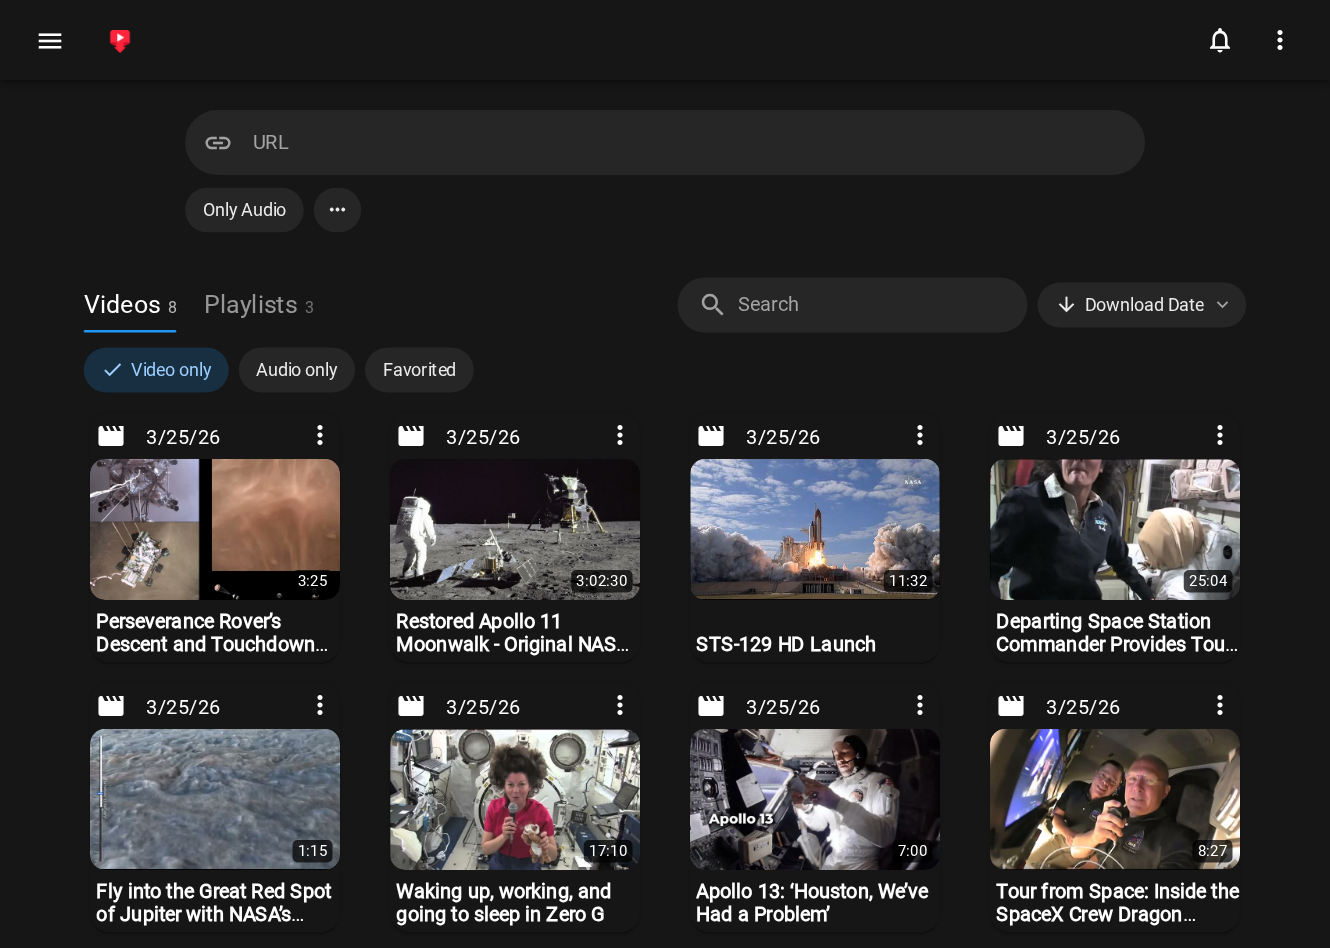
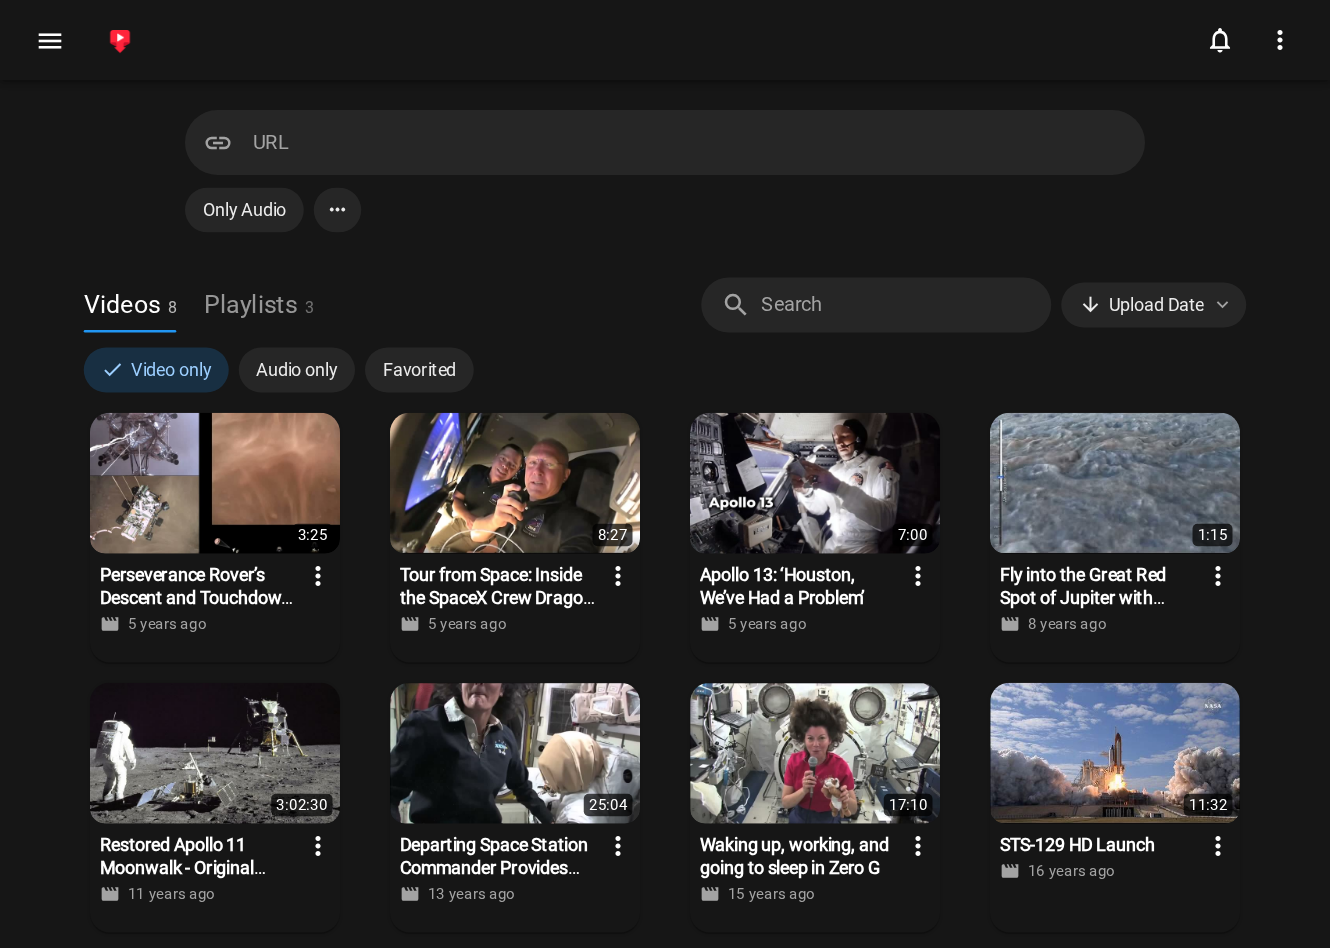
docs(readme): show the library sorted by Upload Date [skip ci]
The README screenshot now shows the library sorted by Upload Date,
newest first. capture.mjs sets that sort in localStorage alongside the
Video only chip.

With this sort, each card says how long ago its video went up, counted
from now. The page clock is held at the library's downloaded date so
the labels, and the PNG, stay the same from one run to the next.

diff --git a/DEVELOPMENT.md b/DEVELOPMENT.md
@@ -501,6 +501,9 @@ The media files themselves are empty placeholders. The home page never opens one
 - **The library is written into the local database, not imported.** An import stamps each
   file with the time it ran, and that is the date the card shows. Fixed timestamps are what
   keep the PNG stable.
+- **The page clock is held at the library's `downloaded` date.** The screenshot sorts by
+  Upload Date, and that sort labels each card with how long ago its video went up, counted
+  from now. On the real clock the labels, and the PNG, drift as the months pass.
 - **`appdata/db.json` has to carry the migration flags.** Without them the first boot runs
   the pre-4.3 migrations, one of which rebuilds the local database from `db.json` and
   empties the seeded tables.
